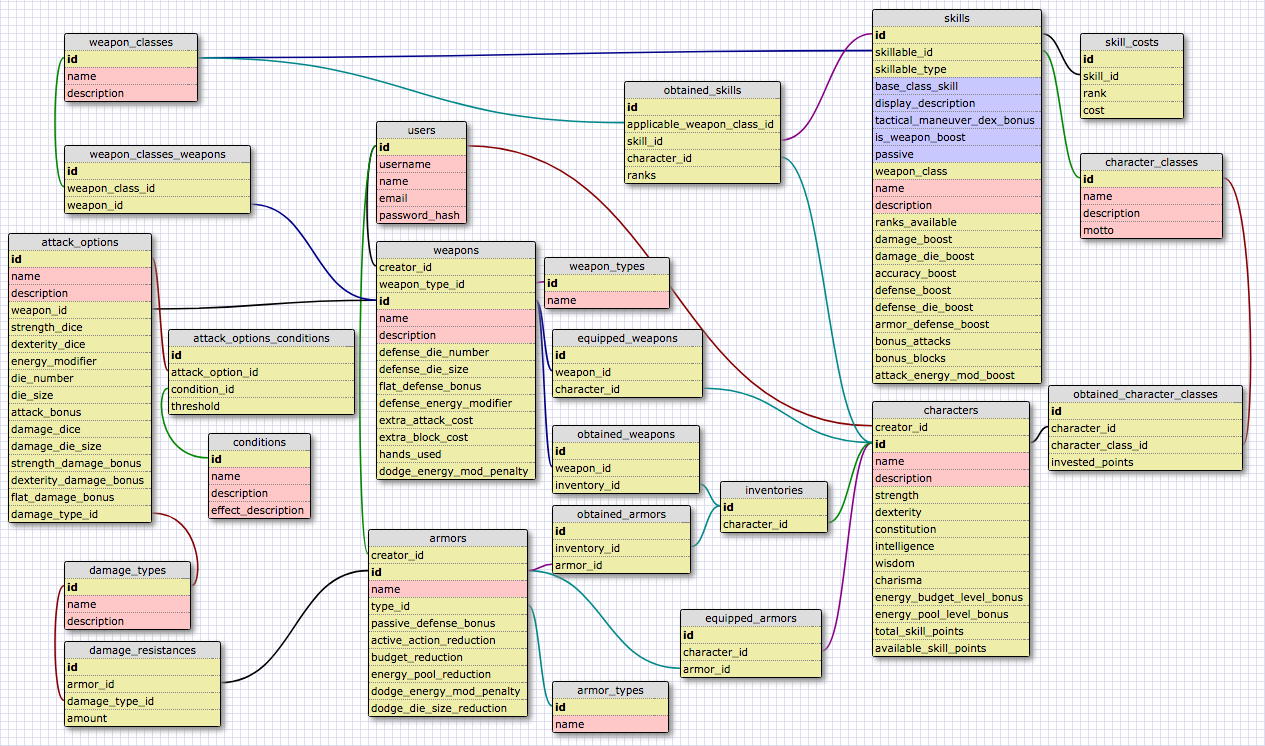
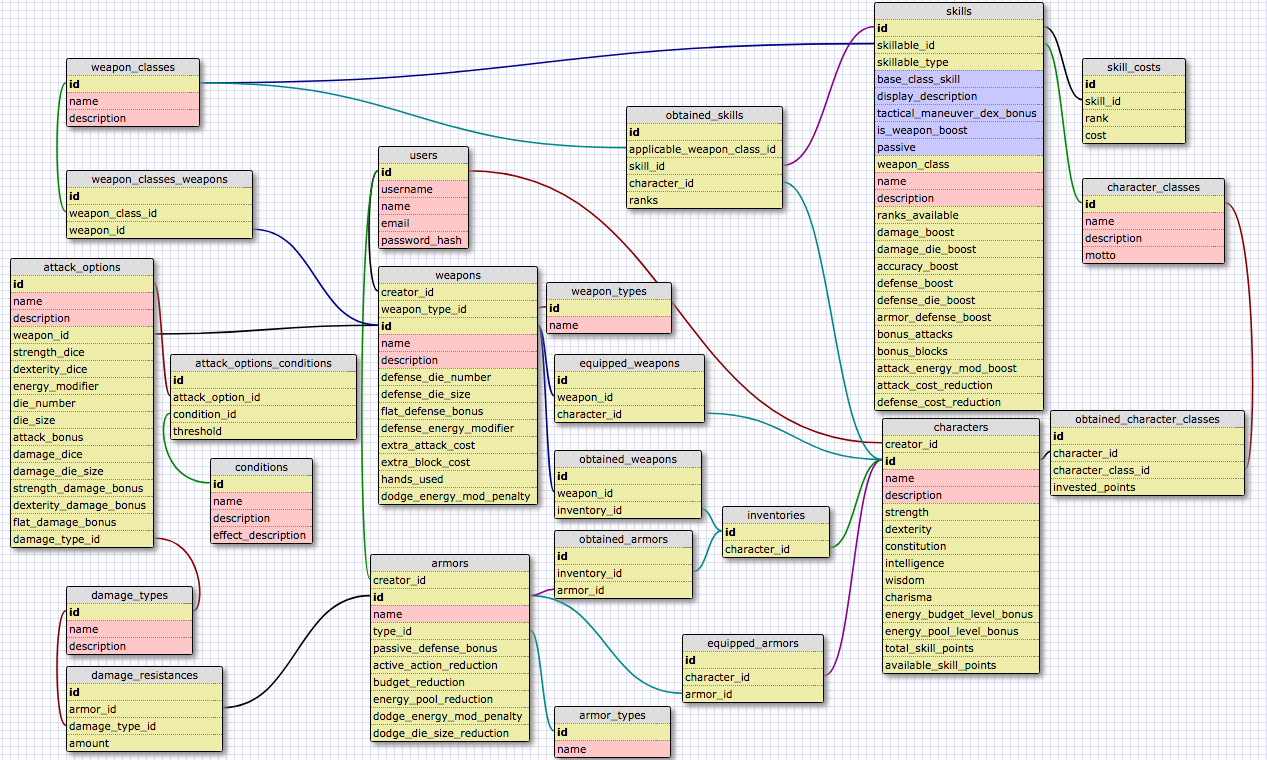
Add seeds for all weapon skills and add weapon_class, is_weapon_boost, and passive columns to skills

diff --git a/db/seeds.rb b/db/seeds.rb
@@ -251,4 +251,98 @@ c_t = soldier.skills.create!(base_class_skill: false, display_description: true,
 end
 
 # Weapon Skills
+class1.skills.create!(base_class_skill: true, display_description: false, passive: true, name: "Bring the Hurt", description: "For every ten skill points spent on Class 1 weapon skills, all Class 1 weapons gain +2 to damage.", damage_boost: 2)
 
+p_a = class1.skills.create!(base_class_skill: false, display_description: true, name: "Power Attack", description: "Invest more points in offense than defense and gain bonus damage on your attack. If Power Attack is used it must be the only attack in that offensive round. +1 base damage per level.", ranks_available: 10)
+[1,1,2,3,5,8,13,21,34,55].each_with_index do |cost, idx|
+  p_a.skill_costs.create!(rank: (idx + 1), cost: cost)
+end
+
+s = class1.skills.create!(base_class_skill: false, display_description: true, name: "Sweep", description: "Low angled attack made to knock out the legs. Different margins of victory mean different levels of debuffs from off balance to prone. 1/2 damage on successful attack, Strong victory causes Off Balance, Overwhelming causes Prone. Can’t be used in successive offensive rounds (note that it can be used multiple times within one round).", ranks_available: 1)
+[15].each_with_index do |cost, idx|
+  s.skill_costs.create!(rank: (idx + 1), cost: cost)
+end
+
+o = class1.skills.create!(base_class_skill: false, display_description: true, name: "Overhead", description: "All opponents gain an accuracy bonus on you during your next defensive round. Deal significantly improved damage and gain a bonus against armor for the hit. Must be used with Power Attack. +25 percent accuracy for enemies, +50 percent total damage before DR.", ranks_available: 1)
+[15].each_with_index do |cost, idx|
+  o.skill_costs.create!(rank: (idx + 1), cost: cost)
+end
+
+s_u = class1.skills.create!(base_class_skill: false, display_description: true, name: "Step Up", description: "Used with Power Attack and/or Overhead: Take a step forward making an Engage check (Opponent can respond with a step back, if able, by making a Disengage check) and gain a bonus to damage on a power attack. +100 percent damage, put Off Balance in next defensive round.", ranks_available: 1)
+[20].each_with_index do |cost, idx|
+  s_u.skill_costs.create!(rank: (idx + 1), cost: cost)
+end
+
+d_t = class1.skills.create!(base_class_skill: false, display_description: false, name: "Defensive Training", description: "Gain extra blocks with Class 1 weapons at that weapon’s multiple block cost. (note, Defensive training and Swift do not transfer between classes (not that any skills do…)) +1 block per level.", ranks_available: 2, is_weapon_boost: true, weapon_class: class1.id, bonus_blocks: 1)
+[30, 50].each_with_index do |cost, idx|
+  d_t.skill_costs.create!(rank: (idx + 1), cost: cost)
+end
+
+s = class1.skills.create!(base_class_skill: false, display_description: false, name: "Swift", description: "Gain an additional attack with Class 1 weapons at that weapon’s multiple attack cost.", ranks_available: 1, is_weapon_boost: true, weapon_class: class1.id, bonus_attacks: 1)
+[20].each_with_index do |cost, idx|
+  s.skill_costs.create!(rank: (idx + 1), cost: cost)
+end
+
+s_s = class1.skills.create!(base_class_skill: false, display_description: false, name: "Skilled Striker", description: "The cost for additional attacks with Class 1 weapons is reduced by 2 percent per tier (ex: 35 percent becomes 33 percent).", ranks_available: 3, attack_cost_reduction: 2, is_weapon_boost: true, weapon_class: class1.id)
+[10, 20, 30]..each_with_index do |cost, idx|
+  s_s.skill_costs.create!(rank: (idx + 1), cost: cost)
+end
+
+s_b = class1.skills.create!(base_class_skill: false, display_description: false, name: "Skilled Blocker", description: "The cost for additional blocks with Class 1 weapons is reduced by 2 percent per tier (ex: 35 percent becomes 33 percent).", ranks_available: 3, defense_cost_reduction: 2, is_weapon_boost: true, weapon_class: class1.id)
+[10, 20, 30].each_with_index do |cost, idx|
+  s_b.skill_costs.create!(rank: (idx + 1), cost: cost)
+end
+
+class2.skills.create!(base_class_skill: true, display_description: false, name: "Balanced Fighter", description: "For every 10 points spent in Class 2 weapons, gain +1 to each attack and defense.", accuracy_boost: 1, defense_boost: 1)
+
+par = class2.skills.create!(base_class_skill: false, display_description: false, passive: true, name: "Parry", description: "Gain a bonus to defense with a Class 2 weapon. +1 to base defense per level", ranks_available: 7, defense_boost: 1, is_weapon_boost: true, weapon_class: class2.id)
+[3,5,8,13,21,34,55].each_with_index do |cost, idx|
+  par.skill_costs.create!(rank: (idx + 1), cost: cost)
+end
+
+d_t = class2.skills.create!(base_class_skill: false, display_description: false, passive: true, name: "Defensive Training", description: "Gain extra blocks with Class 2 weapons at that weapon’s multiple block cost. +1 block per level ", ranks_available: 2, is_weapon_boost: true, weapon_class: class2.id bonus_blocks: 1)
+[20, 40].each_with_index do |cost, idx|
+  d_t.skill_costs.create!(rank: (idx + 1), cost: cost)
+end
+
+rip = class2.skills.create!(base_class_skill: false, display_description: true, name: "Riposte", description: "Following a successful block of Clear or higher MoV, Attacks with a Class 2 weapon get a bonus to attack. Clear grants +25 percent next attack total, Strong +50 percent, Overwhelming +100 percent", ranks_available: 1)
+[25].each_with_index do |cost, idx|
+  rip.skill_costs.create!(rank: (idx + 1), cost: cost)
+end
+
+pre = class2.skills.create!(base_class_skill: false, display_description: false, passive: true, name: "Precision", description: "Bonus to attack with Class 2 weapons. +1 base attack per level", ranks_available: 9, is_weapon_boost: true, weapon_class: class2.id)
+[1,2,3,5,8,13,21,34,55].each_with_index do |cost, idx|
+  pre.skill_costs.create!(rank: (idx + 1), cost: cost)
+end
+
+s = class2.skills.create!(base_class_skill: false, display_description: false, passive: true, name: "Swift", description: "Gain additional attacks with Class 2 weapons at that weapon’s multiple attack cost. +1 attack per level.", ranks_available: 2, bonus_attacks: 1, is_weapon_boost: true, weapon_class: class2.id)
+[30, 60].each_with_index do |cost, idx|
+  s.skill_costs.create!(rank: (idx + 1), cost: cost)
+end
+
+s_s = class2.skills.create!(base_class_skill: false, display_description: false, passive: true, name: "Skilled Striker", description: "The cost for additional attacks with Class 2 weapons is reduced by 3 percent per tier (ex: 25 percent becomes 22 percent).", ranks_available: 3,  attack_cost_reduction: 3, is_weapon_boost: true, weapon_class: class2.id)
+[10, 20, 30].each_with_index do |cost, idx|
+  s_s.skill_costs.create!(rank: (idx + 1), cost: cost)
+end
+
+s_b = class2.skills.create!(base_class_skill: false, display_description: false, passive: true, name: "Skilled Blocker", description: "The cost for additional blocks with Class 2 weapons is reduced by 3 percent per tier (ex: 25 percent becomes 22 percent).", ranks_available: 3, defense_cost_reduction: 2, is_weapon_boost: true, weapon_class: class2.id)
+[10, 20, 30].each_with_index do |cost, idx|
+  s_b.skill_costs.create!(rank: (idx + 1), cost: cost)
+end
+
+l_s = class2.skills.create!(base_class_skill: false, display_description: true, name: "Leap Strike", description: "A quick leap forward to hopefully catch your opponent by surprise. Opponent must make a reflex check in addition to a block check. If the reflex check fails the block is drastically weakened by 50 percent, if the reflex check is made, your accuracy is decreased by 50 percent. Begins at DEXx5, decreases by one per additional level.")
+[4,8,16,32].each_with_index do |cost, idx|
+  l_s.skill_costs.create!(rank: (idx + 1), cost: cost)
+end
+
+
+
+d_t = shields.skills.create!(base_class_skill: false, display_description: false, name: "Defensive Training", description: "Gain extra blocks with shields at that shield's multiple block cost. +1 block per level ", ranks_available: 2, is_weapon_boost: true, weapon_class: shields.id bonus_blocks: 1)
+[20, 40].each_with_index do |cost, idx|
+  d_t.skill_costs.create!(rank: (idx + 1), cost: cost)
+end
+
+s_b = shields.skills.create!(base_class_skill: false, display_description: false, name: "Skilled Blocker", description: "The cost for additional blocks with shields is reduced by 3 percent per tier (ex: 25 percent becomes 22 percent).", ranks_available: 3, defense_cost_reduction: 2, is_weapon_boost: true, weapon_class: shields.id)
+[10, 20, 30].each_with_index do |cost, idx|
+  s_b.skill_costs.create!(rank: (idx + 1), cost: cost)
+end

diff --git a/db/schema.rb b/db/schema.rb
@@ -48,6 +48,7 @@ ActiveRecord::Schema.define(version: 20170716043007) do
     t.decimal  "energy_modifier"
     t.integer  "die_number"
     t.integer  "die_size"
+    t.integer  "attack_bonus",           default: 0
     t.integer  "damage_dice"
     t.integer  "damage_die_size"
     t.integer  "strength_damage_bonus"
@@ -72,6 +73,7 @@ ActiveRecord::Schema.define(version: 20170716043007) do
   create_table "character_classes", force: :cascade do |t|
     t.string   "name"
     t.text     "description"
+    t.string   "motto"
     t.datetime "created_at",  null: false
     t.datetime "updated_at",  null: false
   end
@@ -201,7 +203,10 @@ ActiveRecord::Schema.define(version: 20170716043007) do
     t.integer  "skillable_id"
     t.string   "name"
     t.text     "description"
+    t.boolean  "passive",                     default: false
     t.boolean  "tactical_maneuver_dex_bonus", default: false
+    t.boolean  "is_weapon_boost",             default: false
+    t.integer  "weapon_class"
     t.integer  "ranks_available",             default: 0
     t.integer  "damage_boost",                default: 0
     t.integer  "damage_die_boost",            default: 0
@@ -211,6 +216,9 @@ ActiveRecord::Schema.define(version: 20170716043007) do
     t.integer  "armor_defense_boost",         default: 0
     t.integer  "bonus_attacks",               default: 0
     t.integer  "bonus_blocks",                default: 0
+    t.decimal  "attack_energy_mod_boost",     default: "0.0"
+    t.integer  "attack_cost_reduction",       default: 0
+    t.integer  "defense_cost_reduction",      default: 0
     t.datetime "created_at",                                  null: false
     t.datetime "updated_at",                                  null: false
     t.index ["skillable_type", "skillable_id"], name: "index_skills_on_skillable_type_and_skillable_id", using: :btree
@@ -259,8 +267,9 @@ ActiveRecord::Schema.define(version: 20170716043007) do
     t.integer  "extra_attack_cost"
     t.integer  "extra_block_cost"
     t.integer  "hands_used"
-    t.datetime "created_at",              null: false
-    t.datetime "updated_at",              null: false
+    t.decimal  "dodge_energy_mod_penalty", default: "0.0"
+    t.datetime "created_at",                               null: false
+    t.datetime "updated_at",                               null: false
     t.index ["user_id"], name: "index_weapons_on_user_id", using: :btree
     t.index ["weapon_type_id"], name: "index_weapons_on_weapon_type_id", using: :btree
   end

diff --git a/db/migrate/20170716003229_create_skills.rb b/db/migrate/20170716003229_create_skills.rb
@@ -8,7 +8,7 @@ class CreateSkills < ActiveRecord::Migration[5.0]
       t.text :description
       t.boolean :passive, default: false
       t.boolean :tactical_maneuver_dex_bonus, default: false
-      t.boolean :is_weapon_boost
+      t.boolean :is_weapon_boost, default: false
       t.integer :weapon_class
       t.integer :ranks_available, default: 0
       t.integer :damage_boost, default: 0
@@ -20,6 +20,8 @@ class CreateSkills < ActiveRecord::Migration[5.0]
       t.integer :bonus_attacks, default: 0
       t.integer :bonus_blocks, default: 0
       t.decimal :attack_energy_mod_boost, default: 0
+      t.integer :attack_cost_reduction, default: 0
+      t.integer :defense_cost_reduction, default: 0
 
       t.timestamps
     end
